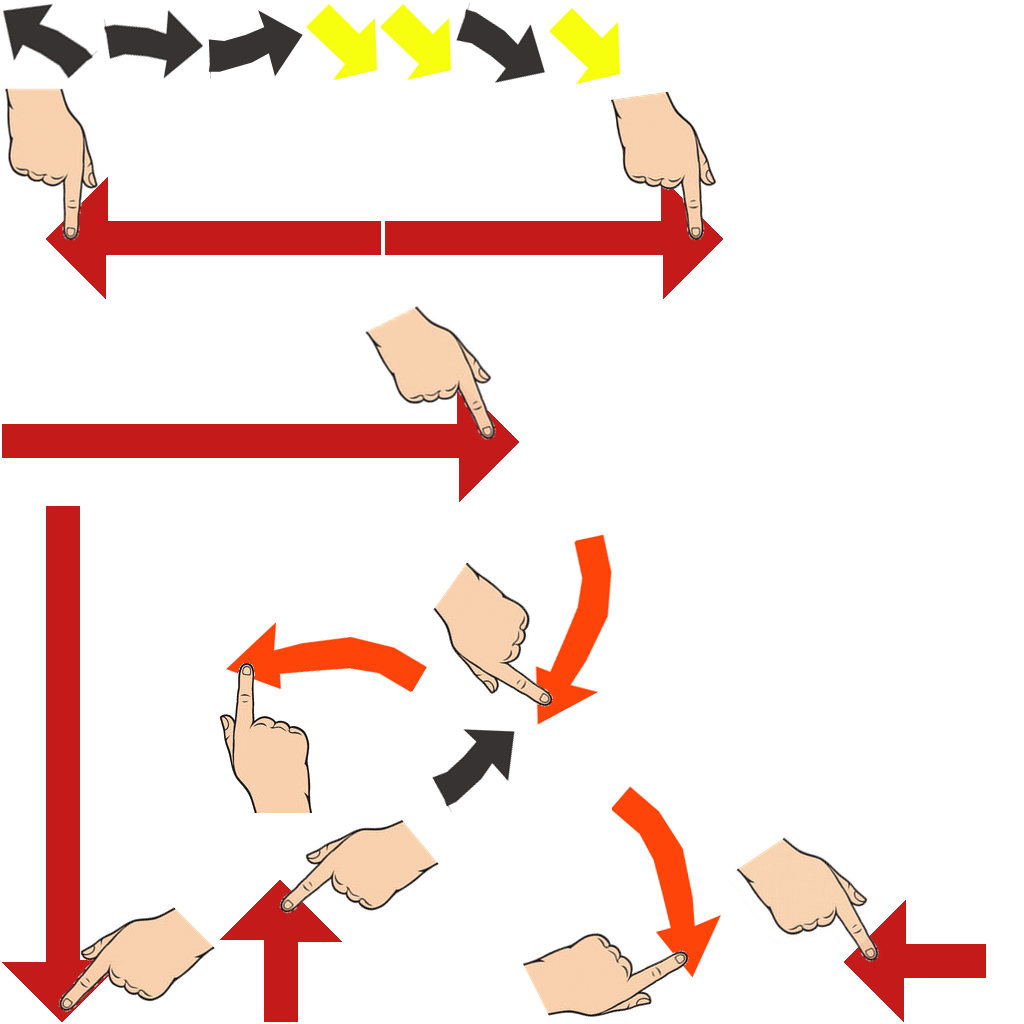
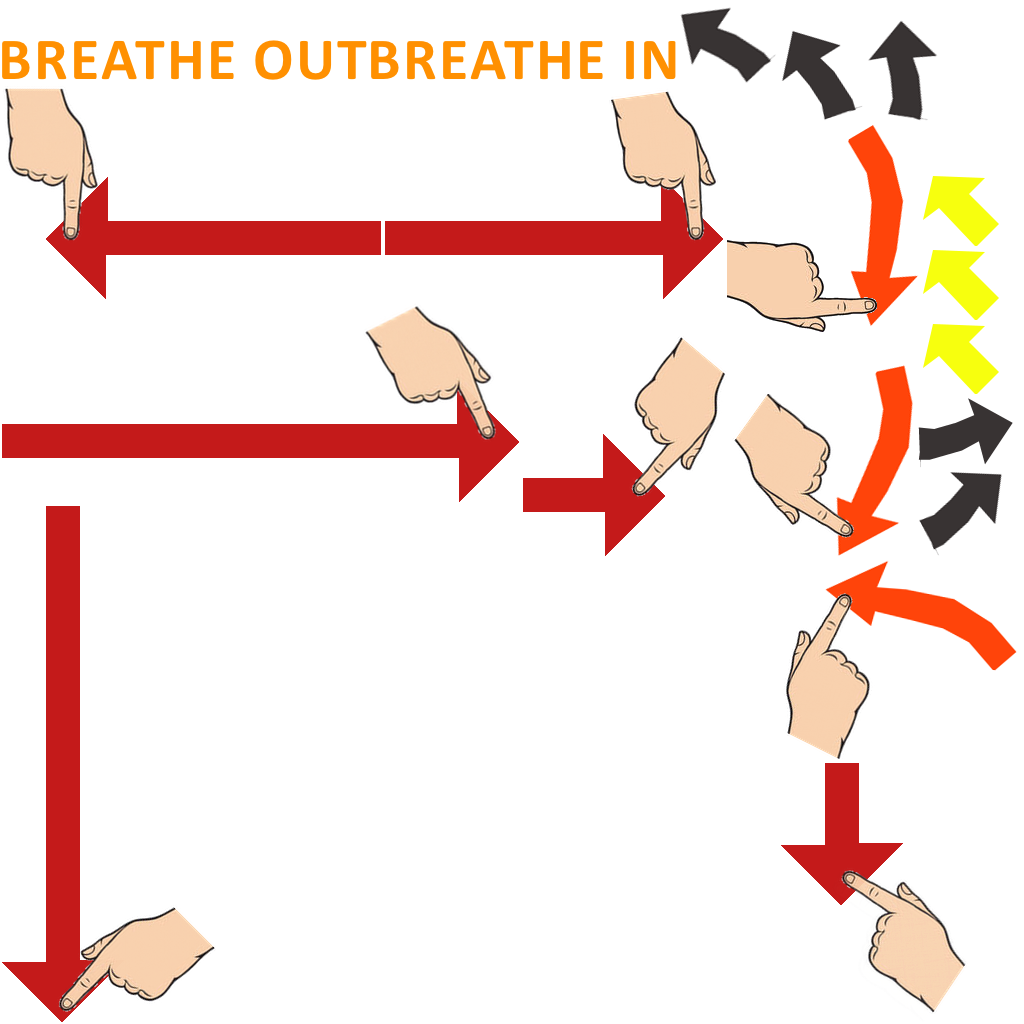
Breathe In / Breathe Out message

Changed region(s): [[0.0, 0.0, 1.0, 1.0], [0.2188, 0.5938, 0.4375, 1.0], [0.5, 0.75, 0.7188, 1.0]]

diff --git a/MyZooPets/Assets/Scripts/InhalerGame/InhalerInhaleExhale.cs b/MyZooPets/Assets/Scripts/InhalerGame/InhalerInhaleExhale.cs
@@ -6,6 +6,7 @@ public class InhalerInhaleExhale : MonoBehaviour {
     public AudioSource inhale;
     public AudioSource exhale;
     tk2dAnimatedSprite arrows;
+    GameObject breatheMessageObj;
     float firstTouchYPos;
     bool firstTouchOnObject = false;
     bool completedGame = false;
@@ -16,6 +17,7 @@ public class InhalerInhaleExhale : MonoBehaviour {
 	void Start () {
         inhalerGameManager = GameObject.Find("InhalerGameManager").GetComponent<InhalerGameManager>();
         arrows = GetComponent<tk2dAnimatedSprite>();
+        breatheMessageObj = GameObject.Find("BreatheMessage");
         Disable();
 
         if (InhalerLogic.CurrentInhalerType == InhalerType.Advair){
@@ -34,6 +36,7 @@ public class InhalerInhaleExhale : MonoBehaviour {
         if (InhalerLogic.CurrentStep == breathingInStep && !pointingUp){
             arrows.FlipY();
             pointingUp = true;
+            breatheMessageObj.GetComponent<tk2dAnimatedSprite>().Play("Breathe In");
         }
 
         CheckAndEnable();
@@ -82,9 +85,11 @@ public class InhalerInhaleExhale : MonoBehaviour {
         if (InhalerLogic.CurrentStep == 3 || InhalerLogic.CurrentStep == breathingInStep){
             if (inhalerGameManager.ShowHint){
                 renderer.enabled = true;
+                breatheMessageObj.renderer.enabled = true;
             }
             else {
                 renderer.enabled = false;
+                breatheMessageObj.renderer.enabled = false;
             }
             collider.enabled = true;
         }
@@ -93,6 +98,7 @@ public class InhalerInhaleExhale : MonoBehaviour {
     void Disable(){
         renderer.enabled = false;
         collider.enabled = false;
+        breatheMessageObj.renderer.enabled = false;
     }
 
     void ResetTouch(){
